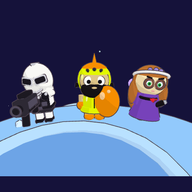
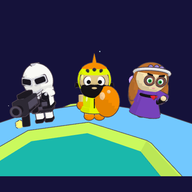
cowaltz: restyle from itemnaut's taste profile
Flat-shaded low-poly look with unbroken ink outlines, highlighter and ocean
colours (sea craters, ocean planet), Mario 64-style loose movement (tiptoe to
run, momentum, skids, lean), teammates bring the EpiPen after a sting, small
idle moments and wave-clear high fives, dizzy bees, reduced-motion and
screen-reader announcements.

Claude-Session: https://claude.ai/code/session_01FZs65bri4EmuDcWt9qR4u5

diff --git a/games/cowaltz/index.html b/games/cowaltz/index.html
@@ -40,7 +40,7 @@
   .pt { width:54px; height:54px; border-radius:16px; border:4px solid #161216; background:#2A2560; padding:0; position:relative; opacity:.62; box-shadow:2px 3px 0 #161216; }
   .pt svg { width:100%; height:100%; display:block; }
   .pt.on { opacity:1; background:#FFE94A; transform:scale(1.08); }
-  .pt b { position:absolute; left:50%; bottom:-11px; transform:translateX(-50%); font-family:'Bangers', cursive; font-weight:normal; font-size:11px; letter-spacing:.5px;
+  .pt b { position:absolute; left:50%; bottom:-11px; transform:translateX(-50%); font-family:'Bangers', cursive; font-weight:normal; font-size:12px; letter-spacing:.5px;
     background:#161216; color:#fff; border-radius:6px; padding:0 4px; white-space:nowrap; }
   .pt.hurt { animation: hurt .5s; }
   @keyframes hurt { 0%,100% { background:#2A2560; } 30% { background:#FF2E88; } }
@@ -128,13 +128,12 @@
     <h1>COWALTZ</h1>
     <p class="sub">The Knight, the Fairy Princess &amp; the Trooper vs. the bees of the Blue Moon</p>
     <div class="help">
-      <div>🕹 <b>Stick</b> to move</div>
-      <div>🛡 <b>Knight</b>: his shield bounces bees and stingers back into the swarm. Tap <b>BASH</b> to slam bees.</div>
-      <div>🏹 <b>Fairy</b>: hold <b>SHOOT</b> to fire arrows.</div>
-      <div>🔫 <b>Trooper</b>: hold <b>FIRE</b> for big knock-back balls.</div>
-      <div>👆 <b>Tap a hero</b> (or their portrait) to take control. The others fight on their own.</div>
-      <div>🐝 Bees aim (watch for the pink line), then launch themselves stinger-first. Only the queen shoots stingers.</div>
-      <div>💉 Every sting uses an <b>EpiPen</b>. Pick more up. Get stung with none left and it's over.</div>
+      <div>🕹 <b>Stick</b> to move. Push a little to tiptoe, all the way to run.</div>
+      <div>👆 <b>Tap a hero</b> (or their portrait) to play as them. The others fight on their own.</div>
+      <div>🛡 <b>Knight</b>: his shield bounces bees back. <b>BASH</b> to slam them.</div>
+      <div>🏹 <b>Fairy</b>: hold <b>SHOOT</b>. 🔫 <b>Trooper</b>: hold <b>FIRE</b>.</div>
+      <div>🐝 A pink line means a bee is about to dive. Knock bees into each other.</div>
+      <div>💉 A sting swells you up. A teammate runs over with an <b>EpiPen</b>. Out of EpiPens? Game over.</div>
     </div>
     <button class="big" id="startB">PLAY</button>
     <p id="bestT" style="font-size:16px;margin:8px 0 0"></p>
@@ -149,6 +148,7 @@
   </div>
 </div>
 <div id="err">This needs WebGL to run.</div>
+<div id="sr" aria-live="polite" style="position:fixed;left:-9999px;width:1px;height:1px;overflow:hidden"></div>
 
 <script type="module">
 import * as THREE from 'three';
@@ -158,6 +158,8 @@ import { RoundedBoxGeometry } from 'three/addons/geometries/RoundedBoxGeometry.j
 
 const QS = new URLSearchParams(location.search);
 const AUTOTEST = QS.has('autotest'), GOD = QS.has('god');
+const CALM = matchMedia('(prefers-reduced-motion: reduce)').matches;     // no shake or twinkle
+const say = t => { const el = document.getElementById('sr'); if (el) el.textContent = t; };
 
 // ======================= renderer / scene =======================
 let renderer;
@@ -183,6 +185,7 @@ function toon(color, outline = true, extra = null) {
   const k = color + (outline ? 'o' : 'n') + (extra ? JSON.stringify(extra) : '');
   if (!matCache[k]) {
     matCache[k] = new THREE.MeshToonMaterial(Object.assign({ color, gradientMap: ramp }, extra || {}));
+    matCache[k].flatShading = true;   // set after construction: the constructor drops unknown keys
     if (!outline) matCache[k].userData.outlineParameters = { visible: false };
   }
   return matCache[k];
@@ -194,7 +197,7 @@ function part(geo, color, parent, pos = [0, 0, 0], scl = null, rot = null, outli
   parent.add(m); return m;
 }
 function pivot(parent, pos = [0, 0, 0], rot = null) { const g = new THREE.Group(); g.position.set(...pos); if (rot) g.rotation.set(...rot); parent.add(g); return g; }
-const SPH = (r, w = 20, h = 14) => new THREE.SphereGeometry(r, w, h);
+const SPH = (r, w = 12, h = 9) => new THREE.SphereGeometry(r, w, h);   // low-poly on purpose
 
 // ======================= sphere math =======================
 const R = 11;
@@ -225,8 +228,8 @@ const randDir = (r = Math.random) => { const z = r() * 2 - 1, t = r() * 6.2832, 
 const anyTangent = (u, out) => { out.set(0, 1, 0); if (Math.abs(u.y) > 0.9) out.set(1, 0, 0); return tangent(out, u).normalize(); };
 
 // ======================= the blue moon =======================
-const MOON = 0x8EC3F5, MOON_DARK = 0x6A9FE0, MOON_RIM = 0xB4DBFF;
-const moon = new THREE.Mesh(SPH(R, 72, 54), toon(MOON));
+const MOON = 0x6FC2F7, MOON_DARK = 0x19B3A6, MOON_RIM = 0xC4F25A;
+const moon = new THREE.Mesh(SPH(R, 34, 24), toon(MOON));
 scene.add(moon);
 {
   const discs = [], rims = [], used = [];
@@ -235,8 +238,8 @@ scene.add(moon);
     if (used.some(o => o.d.distanceTo(d) * R < (o.r + r) * 0.9)) continue;
     used.push({ d, r });
     const q = new THREE.Quaternion().setFromUnitVectors(new THREE.Vector3(0, 0, 1), d);
-    const disc = new THREE.CircleGeometry(r, 22); disc.applyQuaternion(q); disc.translate(...d.clone().multiplyScalar(R + 0.015).toArray()); discs.push(disc);
-    const rim = new THREE.TorusGeometry(r, 0.07 + r * 0.05, 5, 26); rim.applyQuaternion(q); rim.translate(...d.clone().multiplyScalar(R + 0.02).toArray()); rims.push(rim);
+    const disc = new THREE.CircleGeometry(r, 9); disc.applyQuaternion(q); disc.translate(...d.clone().multiplyScalar(R + 0.015).toArray()); discs.push(disc);
+    const rim = new THREE.TorusGeometry(r, 0.07 + r * 0.05, 4, 9); rim.applyQuaternion(q); rim.translate(...d.clone().multiplyScalar(R + 0.02).toArray()); rims.push(rim);
   }
   scene.add(new THREE.Mesh(mergeGeometries(discs), toon(MOON_DARK, false)));
   scene.add(new THREE.Mesh(mergeGeometries(rims), toon(MOON_RIM)));
@@ -246,7 +249,7 @@ scene.add(moon);
     const d = randDir(rnd), g = new THREE.IcosahedronGeometry(0.08 + rnd() * 0.12, 0);
     g.translate(...d.multiplyScalar(R + 0.03).toArray()); peb.push(g);
   }
-  scene.add(new THREE.Mesh(mergeGeometries(peb), toon(0xD6ECFF)));
+  scene.add(new THREE.Mesh(mergeGeometries(peb), toon(0xFFF27A)));
 }
 
 // ======================= sky: stars + a far ringed planet =======================
@@ -269,9 +272,9 @@ for (let i = 0; i < 150; i++) {
 }
 { // a big ringed planet hanging in the sky
   const pl = new THREE.Group();
-  part(SPH(9, 32, 24), 0xFF8FB3, pl);
-  part(new THREE.SphereGeometry(9.05, 32, 24, 0, 6.28, 1.2, 0.5), 0xFF5FA0, pl, [0, 0, 0], null, null, false);
-  const ring = part(new THREE.TorusGeometry(14, 1.1, 4, 48), 0xFFE94A, pl, [0, 0, 0], [1, 1, 0.25], [1.25, 0.3, 0]);
+  part(SPH(9, 16, 12), 0x1E7FE0, pl);                                     // an ocean world on the horizon
+  part(new THREE.SphereGeometry(9.05, 16, 12, 0, 6.28, 1.15, 0.55), 0x3EE07A, pl, [0, 0, 0], null, null, false);
+  const ring = part(new THREE.TorusGeometry(14, 1.1, 4, 24), 0xFFE94A, pl, [0, 0, 0], [1, 1, 0.25], [1.25, 0.3, 0]);
   pl.position.set(-60, 38, -70); scene.add(pl);
 }
 
@@ -368,6 +371,7 @@ function sfx(name) {
     case 'boom': tone('sine', 150, 45, 0.2, 0.7); noise(0.14, 0.55, 500); break;
     case 'whoosh': noise(0.28, 0.3, 1500); tone('sawtooth', 260, 640, 0.2, 0.08); break;
     case 'buzz': tone('sawtooth', 170, 230, 0.3, 0.1); break;
+    case 'skid': noise(0.2, 0.25, 2400); break;
     case 'wave': [523, 659, 784, 1046].forEach((f, i) => tone('square', f, f, 0.11, 0.14, i * 0.09)); break;
     case 'over': [392, 330, 262, 196].forEach((f, i) => tone('triangle', f, f * 0.98, 0.25, 0.4, i * 0.2)); break;
   }
@@ -540,7 +544,8 @@ function makeHero(kind) {
   scene.add(ring);
   return Object.assign(m, {
     kind, ring, u: new THREE.Vector3(0, 1, 0), face: new THREE.Vector3(0, 0, 1), vel: new THREE.Vector3(),
-    h: 0, inv: 0, phase: 0, walk: 0, bashT: 0, bashCd: 0, fireCd: 0, draw: 0, block: 0, recoil: 0, hitSet: new Set()
+    h: 0, inv: 0, phase: 0, walk: 0, bashT: 0, bashCd: 0, fireCd: 0, draw: 0, block: 0, recoil: 0, hitSet: new Set(),
+    puffy: 0, helpT: 0, cheer: 0, breath: 0, skid: 0, run: 0, idleT: -2 - Math.random() * 3, fidget: 0, lean: 0, bank: 0, lastFace: new THREE.Vector3(0, 0, 1)
   });
 }
 const knight = makeHero('knight'), fairy = makeHero('fairy'), soldier = makeHero('soldier');
@@ -574,8 +579,8 @@ const BEE_KIND = {          // every bee but the queen is a living missile: it a
   queen: { col: '#FFD23C', hp: 40, rad: 1.4, pts: 2500, scale: 2.2, spd: 1 },     // the only one that shoots stingers
 };
 const BEE_GEO = {
-  abd: new THREE.SphereGeometry(0.4, 20, 16).rotateX(Math.PI / 2),
-  head: new THREE.SphereGeometry(0.36, 22, 16),
+  abd: new THREE.SphereGeometry(0.4, 12, 9).rotateX(Math.PI / 2),
+  head: new THREE.SphereGeometry(0.36, 14, 10),
   sting: new THREE.ConeGeometry(0.09, 0.32, 8).rotateX(-Math.PI / 2),
   horn: new THREE.ConeGeometry(0.055, 0.17, 6),
   wing: new THREE.CircleGeometry(0.3, 16),
@@ -585,6 +590,7 @@ const BEE_MAT = {};
 for (const k in BEE_KIND) {
   const c = BEE_KIND[k].col;
   BEE_MAT[k] = { abd: new THREE.MeshToonMaterial({ map: stripeTex(c), gradientMap: ramp }), head: new THREE.MeshToonMaterial({ map: faceTex(c), gradientMap: ramp }) };
+  BEE_MAT[k].abd.flatShading = BEE_MAT[k].head.flatShading = true;
 }
 const WING_MAT = toon(0xF4FBFF, true, { side: THREE.DoubleSide, transparent: true, opacity: 0.85 });
 function buildBee(kind) {
@@ -681,7 +687,7 @@ function buildPen() {
   part(new THREE.CylinderGeometry(0.1, 0.12, 0.14, 12), 0xFF7A1F, s, [0, -0.35, 0]);
   part(new THREE.CylinderGeometry(0.12, 0.11, 0.16, 12), 0x2F7BE8, s, [0, 0.36, 0]);
   s.rotation.z = 0.5;
-  const ring = part(new THREE.TorusGeometry(0.55, 0.05, 6, 30).rotateX(Math.PI / 2), noLine(new THREE.MeshBasicMaterial({ color: 0x7FF6FF, transparent: true, opacity: 0.8 })), g, [0, -0.85, 0]);
+  const ring = part(new THREE.TorusGeometry(0.55, 0.05, 6, 30).rotateX(Math.PI / 2), noLine(new THREE.MeshBasicMaterial({ color: 0x8BFF3C, transparent: true, opacity: 0.85 })), g, [0, -0.85, 0]);
   return { g, s, ring };
 }
 function spawnPen(u) {
@@ -695,14 +701,14 @@ let wave = 0, score = 0, pens = 3, best = 0, combo = 0, comboT = 0, waveQueue = 
 let slowmo = 1, overT = 0, simT = 0, shake = 0;
 try { best = +localStorage.getItem('cowaltz-best') || 0; } catch (e) { }
 const $ = id => document.getElementById(id);
-const stats = { kills: 0, stings: 0, ricochets: 0, blocks: 0, pens: 0, arrows: 0, balls: 0, bashes: 0, launches: 0, maxWave: 0 };
+const stats = { rescues: 0, skids: 0, kills: 0, stings: 0, ricochets: 0, blocks: 0, pens: 0, arrows: 0, balls: 0, bashes: 0, launches: 0, maxWave: 0 };
 
 function resetHeroes() {
   const u0 = new THREE.Vector3(0, 0.35, 1).normalize();
   knight.u.copy(u0); knight.face.set(0, 1, 0); tangent(knight.face, knight.u).normalize();
   const side = new THREE.Vector3().crossVectors(knight.u, knight.face).normalize();
   offsetU(u0, side, -1.4, fairy.u); offsetU(u0, side, 1.4, soldier.u);
-  for (const h of heroes) { if (h !== knight) { h.face.copy(knight.face); tangent(h.face, h.u).normalize(); } h.vel.set(0, 0, 0); h.inv = 0; h.bashT = 0; h.bashCd = 0; h.fireCd = 0; }
+  for (const h of heroes) { if (h !== knight) { h.face.copy(knight.face); tangent(h.face, h.u).normalize(); } h.vel.set(0, 0, 0); h.inv = 0; h.bashT = 0; h.bashCd = 0; h.fireCd = 0; h.puffy = 0; h.cheer = 0; h.skid = 0; h.run = 0; }
   camU.copy(u0); camFwd.copy(knight.face); tangent(camFwd, camU).normalize();
 }
 function clearField() {
@@ -743,6 +749,7 @@ function planWave(n) {
 function startWave() {
   wave++; stats.maxWave = wave; waveQueue = planWave(wave); spawnT = 0.4;
   banner(`WAVE ${wave}`, wave % 5 === 0 ? 'THE QUEEN IS HERE!' : (wave === 1 ? 'here come the bees…' : ''));
+  say(`Wave ${wave}` + (wave % 5 === 0 ? '. The queen is here.' : ''));
   sfx('wave'); updateHud(true);
 }
 function spawnPoint(minA, maxA) {
@@ -859,6 +866,7 @@ function updateCamera(dt, follow, dist, pitch) {
   const p = camCur.p, d = camCur.d;
   const focus = tA.copy(camU).multiplyScalar(R + 0.6);
   camera.position.copy(focus).addScaledVector(camU, Math.sin(p) * d).addScaledVector(camFwd, -Math.cos(p) * d);
+  if (CALM) shake = 0;
   if (shake > 0) { camera.position.x += (Math.random() - .5) * shake; camera.position.y += (Math.random() - .5) * shake; shake = Math.max(0, shake - dt * 2.5); }
   camera.up.copy(camU);
   camera.lookAt(tB.copy(focus).addScaledVector(camFwd, 0.9));
@@ -876,13 +884,14 @@ function nearestBee(u, maxD, coneFace = null, coneCos = -2) {
   }
   return best;
 }
-function nearestHero(u) { let best = knight, bd = 1e9; for (const h of heroes) { const d = chord(u, h.u); if (d < bd) { bd = d; best = h; } } return best; }
+function nearestHero(u) { let best = null, bd = 1e9; for (const h of heroes) { const d = chord(u, h.u) + (h.puffy > 0 ? 50 : 0); if (d < bd) { bd = d; best = h; } } return best; }
 function addScore(n) { score += n; }
 function knockBee(b, dir, speed, chain = 0) {
   const mul = b.kind === 'queen' ? 0.15 : 1;
   b.vel.copy(dir).multiplyScalar(speed * mul); tangent(b.vel, b.u);
   b.knock = b.kind === 'queen' ? 0.15 : 0.75; b.chain = chain; b.squash = 1;
   if (b.kind !== 'queen' && (b.mode === 'aim' || b.mode === 'launch')) { b.mode = 'recover'; b.st = 1.1; b.tgt = null; }
+  if (b.kind !== 'queen') b.dizzy = 1.7;
 }
 function damageBee(b, n, src) {
   if (b.dying) return;
@@ -911,17 +920,27 @@ function stingHero(h, fromU) {
   shake = 0.45; sfx('sting');
   const el = $(HERO_UI[h.kind].pt); el.classList.remove('hurt'); void el.offsetWidth; el.classList.add('hurt');
   if (pens <= 0) { popWord('OUCH!!', h.u, 2.2, { fill: '#fff', burst: '#FF2E88', size: 1.8, life: 1.2 }); slowmo = 0.25; overT = 1.1; h.inv = 99; updateHud(true); return; }
-  pens--; h.inv = 2.0;
+  pens--; h.puffy = 4.5; h.inv = h.puffy + 1.2; h.helpT = 0;      // swells up and waits for a teammate's EpiPen
   popWord('STUNG!', h.u, 2.4, { fill: '#fff', burst: '#FF2E88', size: 1.3, life: 0.9 });
-  setTimeout(() => { if (state === 'play') popWord('EPIPEN!', h.u, 2.6, { fill: '#161216', burst: '#FFD400', size: 1.2, life: 0.9 }); }, 280);
+  say(`The ${HERO_UI[h.kind].name.toLowerCase()} got stung. ${pens} EpiPens left.`);
   updateHud(true);
+}
+function giveEpiPen(h, from) {                                    // from = the teammate who ran over (or null)
+  h.puffy = 0; h.inv = 1.4; sfx('pick');
+  _p.copy(h.u).multiplyScalar(R + 1); for (let i = 0; i < 10; i++) emitSpark(_p, h.u, [0x8BFF3C, 0xFFE94A, 0xffffff][i % 3], i < 4);
+  if (from) {
+    stats.rescues++; addScore(250); from.cheer = 0.6; h.cheer = 0.6;
+    popWord('THANKS!', h.u, 2.5, { fill: '#161216', burst: '#8BFF3C', size: 1.2, life: 1 });
+    popWord('+250 TEAMWORK', from.u, 2.0, { fill: '#fff', size: 0.75, life: 1, rise: 1.6 });
+    say(`The ${HERO_UI[from.kind].name.toLowerCase()} brought the EpiPen.`);
+  } else popWord('PHEW…', h.u, 2.4, { fill: '#fff', size: 0.9, life: 0.9 });
 }
 function shieldPoint(out) { return offsetU(knight.u, knight.face, 0.55, out); }
 const _shield = new THREE.Vector3();
 function inShieldArc(fromU, cosLim = 0.3) { dirTo(knight.u, fromU, tD); return tD.dot(knight.face) > cosLim; }
 
 // ======================= hero update (player + AI) =======================
-const _want = new THREE.Vector3(), _aim = new THREE.Vector3(), _tmp = new THREE.Vector3(), _tmp2 = new THREE.Vector3();
+const _want = new THREE.Vector3(), _aim = new THREE.Vector3(), _tmp = new THREE.Vector3(), _tmp2 = new THREE.Vector3(), _dv = new THREE.Vector3();
 const isDanger = b => b.mode === 'aim' || b.mode === 'launch' || b.kind === 'queen';
 function threatDir(u, range, out) {      // weighted direction toward nearby danger
   out.set(0, 0, 0);
@@ -1028,7 +1047,11 @@ function playerHero(h, want, dt) {
   const mag = Math.min(1, Math.hypot(ix, iy));
   const right = tC.crossVectors(camFwd, camU);
   want.copy(right).multiplyScalar(ix).addScaledVector(camFwd, iy); tangent(want, h.u);
-  if (want.lengthSq() > 1e-6) want.setLength(mag * SPEED[h.kind]);
+  // analog range: a light push tiptoes, a full push runs, and holding it full builds a little extra speed
+  h.run = mag > 0.92 ? Math.min(1, h.run + dt * 1.4) : Math.max(0, h.run - dt * 3);
+  const curve = mag < 0.35 ? mag / 0.35 * 0.38 : 0.38 + (mag - 0.35) / 0.65 * 0.62;
+  if (want.lengthSq() > 1e-6) want.setLength(curve * SPEED[h.kind] * (1 + 0.22 * h.run));
+  if (h.puffy > 0) return;
   if (h === knight) {
     if (mag > 0.15) turnToward(h.face, h.u, _tmp2.copy(want).normalize(), 12 * dt);
     else { const nb = dangerBee(h.u, 7); if (nb) turnToward(h.face, h.u, dirTo(h.u, nb.u, _tmp2), 7 * dt); }
@@ -1044,20 +1067,49 @@ const AI = { knight: aiKnight, fairy: aiFairy, soldier: aiSoldier };
 function updateHero(h, dt) {
   h.inv = Math.max(0, h.inv - dt); h.bashCd -= dt; h.fireCd -= dt; h.draw = Math.max(0, h.draw - dt * 4); h.recoil = Math.max(0, h.recoil - dt * 5);
   _want.set(0, 0, 0);
-  if (state === 'play') { if (h === active && !AUTOTEST) playerHero(h, _want, dt); else AI[h.kind](h, _want, dt); }
+  if (state === 'play') {
+    if (h === active && !AUTOTEST) playerHero(h, _want, dt);
+    else if (h.puffy > 0) { let t = null, bd = 1e9; for (const o of heroes) if (o !== h && o.puffy <= 0 && chord(h.u, o.u) < bd) { bd = chord(h.u, o.u); t = o; } if (t) dirTo(h.u, t.u, _want).multiplyScalar(SPEED[h.kind]); }
+    else AI[h.kind](h, _want, dt);
+    // mutual aid: the closest free AI teammate drops everything and runs over with the EpiPen
+    const needy = h.puffy <= 0 && (h !== active || AUTOTEST) ? heroes.find(x => x !== h && x.puffy > 0) : null;
+    if (needy) {
+      let helper = null, bd = 1e9; for (const x of heroes) if (x.puffy <= 0 && (x !== active || AUTOTEST) && chord(x.u, needy.u) < bd) { bd = chord(x.u, needy.u); helper = x; }
+      if (helper === h) dirTo(h.u, needy.u, _want).multiplyScalar(SPEED[h.kind] * 1.15);
+    }
+    if (h.puffy <= 0) for (const o of heroes) if (o !== h && o.puffy > 0 && o.puffy < 3.8 && chord(h.u, o.u) < 1.15) giveEpiPen(o, h);   // a beat to see the swelling first
+    if (h.puffy > 0) {
+      h.puffy -= dt; _want.multiplyScalar(0.45);
+      h.helpT -= dt; if (h.helpT <= 0 && h.puffy > 0.6) { h.helpT = 1.4; popWord('HELP!', h.u, 2.3, { fill: '#fff', burst: '#FF2E88', size: 0.8, life: 0.8, rise: 0.6 }); }
+      if (h.puffy <= 0) giveEpiPen(h, null);
+    }
+  }
   else if (state === 'title') turnToward(h.face, h.u, _tmp2.copy(camFwd).negate(), 8 * dt);
   if (h.bashT > 0) { h.bashT -= dt; _want.copy(h.face).multiplyScalar(13); }
-  h.vel.lerp(_want, 1 - Math.exp(-(h.bashT > 0 ? 30 : 11) * dt)); tangent(h.vel, h.u);
+  const sp0 = h.vel.length();
+  if (h.bashT <= 0 && h.skid <= 0 && sp0 > 3.4 && _want.lengthSq() > 4 && _tmp.copy(_want).normalize().dot(_tmp2.copy(h.vel).divideScalar(sp0)) < -0.4) { h.skid = 0.26; stats.skids++; sfx('skid'); }
+  if (h.skid > 0) { h.skid -= dt; if (Math.random() < 0.6) { _p.copy(h.u).multiplyScalar(R + 0.12); emitSpark(_p, h.u, 0xffffff, false); } }
+  const acc = h.bashT > 0 ? 60 : h.skid > 0 ? 9 : (_want.lengthSq() > sp0 * sp0 ? 24 : 11);
+  _dv.subVectors(_want, h.vel); const dl = _dv.length(), mx = acc * dt; if (dl > mx && dl > 1e-9) _dv.multiplyScalar(mx / dl);
+  const fwdAcc = _dv.dot(h.face) / Math.max(dt, 1e-4);
+  h.vel.add(_dv); tangent(h.vel, h.u);
   for (const o of heroes) { if (o === h) continue; const dd = chord(h.u, o.u); if (dd < 0.95) h.vel.addScaledVector(dirTo(o.u, h.u, tD), (0.95 - dd) * 8); }
-  moveOnSphere(h.u, h.vel, dt, [h.face]);
+  const turnRate = signedAng(h.u, h.lastFace, h.face) / Math.max(dt, 1e-4); h.lastFace.copy(h.face);
+  moveOnSphere(h.u, h.vel, dt, [h.face, h.lastFace]);
+  h.lean += (clamp(fwdAcc * 0.012, -0.22, 0.28) - (h.skid > 0 ? 0.35 : 0) - h.lean) * Math.min(1, 10 * dt);
+  h.bank += (clamp(-turnRate * 0.05, -0.28, 0.28) * Math.min(1, sp0 / 3) - h.bank) * Math.min(1, 8 * dt);
   // animation
   const sp = h.vel.length(); h.walk += (Math.min(1, sp / 4) - h.walk) * Math.min(1, 10 * dt); h.phase += sp * dt * 3.2;
   const s = Math.sin(h.phase), w = h.walk, P = h.P;
   h.h = h.kind === 'fairy' ? 0.1 + Math.sin(simT * 3) * 0.05 : 0;
-  place(h.root, h.u, h.face, h.h + Math.abs(s) * 0.07 * w);
-  h.body.rotation.z = s * 0.09 * w; h.body.rotation.x = 0.12 * w;
-  P.legL.rotation.x = s * 0.7 * w; P.legR.rotation.x = -s * 0.7 * w;
-  P.armR.rotation.x = s * 0.6 * w; P.armL.rotation.x = -s * 0.6 * w;
+  h.cheer = Math.max(0, h.cheer - dt); h.breath = Math.max(0, h.breath - dt);
+  const hop = h.cheer > 0 ? Math.sin(Math.PI * h.cheer / 1.1) * 0.28 : 0, swing = 1 + h.run * 0.6, tip = sp0 < 1.8 ? 0.55 : 1;
+  place(h.root, h.u, h.face, h.h + hop + Math.abs(s) * 0.07 * w * tip);
+  h.body.rotation.z = s * 0.09 * w + h.bank; h.body.rotation.x = 0.12 * w + h.lean + 0.12 * h.run;
+  P.legL.rotation.x = s * 0.7 * w * tip * swing; P.legR.rotation.x = -s * 0.7 * w * tip * swing;
+  P.armR.rotation.x = s * 0.6 * w * swing; P.armL.rotation.x = -s * 0.6 * w * swing;
+  const breathe = 1 + 0.015 * Math.sin(simT * 2.2 + h.phase * 0) + (h.breath > 0 ? 0.07 * Math.sin(Math.PI * (1 - h.breath / 1.6)) : 0);
+  h.body.scale.set(1, breathe, 1);
   P.head.rotation.z = -s * 0.05 * w;
   if (h.kind === 'knight') {
     const bash = h.bashT > 0 ? 1 : 0;
@@ -1077,7 +1129,21 @@ function updateHero(h, dt) {
     P.armR.rotation.set(-1.2 + rc * 0.3, 0, 0.2); P.armL.rotation.set(-1.45 + rc * 0.3, 0, -0.55);
     P.gun.position.z = 0.36 - rc * 0.16; P.gun.rotation.x = -rc * 0.14; h.body.rotation.x -= rc * 0.08;
   }
-  h.root.visible = h.inv > 0 && h.inv < 50 ? Math.floor(h.inv * 12) % 2 === 0 : true;
+  // small moments: when standing still a while, each hero fidgets in their own way
+  if (sp0 < 0.3 && h.puffy <= 0 && h.bashT <= 0 && h.fireCd < -0.5) { h.idleT += dt; if (h.idleT > 0 && h.fidget <= 0) { h.fidget = 1.3; h.idleT = -(3 + Math.random() * 4); } }
+  else if (h.idleT > -1.5) h.idleT = -1.5;
+  if (h.fidget > 0) {
+    h.fidget -= dt; const k = Math.sin(Math.PI * Math.max(0, h.fidget) / 1.3);
+    if (h.kind === 'knight') { P.armR.rotation.x = -2.5 * k; P.armR.rotation.z = -0.5 * k; P.head.rotation.z += 0.08 * k; }      // straightens his helmet
+    else if (h.kind === 'fairy') { P.armL.rotation.x = -2.3 * k; P.armL.rotation.z = 0.85 * k; }                                 // pushes her glasses up
+    else { P.gun.rotation.x -= 0.6 * k; P.head.rotation.x = 0.3 * k; }                                                             // checks his gun
+  } else if (h.kind === 'soldier') P.head.rotation.x = 0;
+  if (h.cheer > 0) { const k = Math.sin(Math.PI * h.cheer / 1.1); if (h.kind === 'soldier') P.gun.rotation.x -= 0.8 * k; else { P.armR.rotation.x = -2.7 * k; if (h.kind === 'fairy') P.armL.rotation.x = -2.7 * k; } }
+  // swollen from a sting until the EpiPen arrives
+  const base = P.head.userData.base || (P.head.userData.base = P.head.scale.x);
+  h.swell = (h.swell || 0) + ((h.puffy > 0 ? 1 : 0) - (h.swell || 0)) * Math.min(1, 6 * dt);
+  P.head.scale.setScalar(base * (1 + 0.32 * h.swell + (h.puffy > 0 ? 0.03 * Math.sin(simT * 9) : 0)));
+  h.root.visible = h.puffy <= 0 && h.inv > 0 && h.inv < 50 ? Math.floor(h.inv * 12) % 2 === 0 : true;
   h.ring.visible = state === 'play' && h === active;
   if (h.ring.visible) { place(h.ring, h.u, h.face, 0.04); h.ring.scale.setScalar(1 + Math.sin(simT * 6) * 0.06); }
 }
@@ -1227,8 +1293,14 @@ function updateBees(dt) {
     b.body.rotation.z = b.spin; b.body.rotation.x = b.knock > 0 ? -0.5 : b.mode === 'launch' ? 0 : 0.15;
     b.body.position.x = b.mode === 'aim' ? (Math.random() - 0.5) * 0.12 : 0;
     const fl = Math.sin(b.t * (b.mode === 'launch' ? 90 : 60)) * 0.6; b.wings[0].rotation.z = 0.3 + fl; b.wings[1].rotation.z = -0.3 - fl;
+    if (b.dizzy > 0 || b.stars) {                                  // little stars circle a dazed bee
+      b.dizzy = Math.max(0, (b.dizzy || 0) - dt);
+      if (!b.stars) { b.stars = new THREE.Group(); for (let j = 0; j < 3; j++) { const sp = new THREE.Sprite(DIZZY_MAT); sp.scale.setScalar(0.26); sp.position.set(Math.cos(j * 2.094) * 0.38, 0, Math.sin(j * 2.094) * 0.38); b.stars.add(sp); } b.stars.position.y = 0.72; b.root.add(b.stars); }
+      b.stars.visible = b.dizzy > 0; b.stars.rotation.y += dt * 7;
+    }
   }
 }
+const DIZZY_MAT = new THREE.SpriteMaterial({ map: sparkTex[0], color: 0xFFE94A, depthWrite: false });
 
 // ======================= projectile update =======================
 function updateProjectiles(dt) {
@@ -1307,7 +1379,11 @@ function updateGame(dt) {
         spawnT = Math.max(0.35, 1.0 - wave * 0.05);
       }
     } else if (bees.every(b => b.dying) && state === 'play') {
-      nextWaveT = 2.6; addScore(250 * wave); popWord('WAVE CLEAR!', active.u, 2.6, { fill: '#FFE94A', burst: '#2F7BE8', size: 1.6, life: 1.4 });
+      nextWaveT = 2.6; addScore(250 * wave); popWord('WAVE CLEAR!', active.u, 2.6, { fill: '#FFE94A', burst: '#1E7FE0', size: 1.6, life: 1.4 });
+      for (const h of heroes) { h.cheer = 1.1; h.breath = 1.6; }
+      for (let a = 0; a < heroes.length; a++) for (let b = a + 1; b < heroes.length; b++) if (chord(heroes[a].u, heroes[b].u) < 2.6) {
+        const mid = tA.copy(heroes[a].u).add(heroes[b].u).normalize(); popWord('HIGH FIVE!', mid, 1.8, { fill: '#fff', burst: '#FF8A1F', size: 0.8, life: 0.9 }); break; }
+      say(`Wave ${wave} clear.`);
     }
     stageT += dt;
     if (stageT > 21 && pickups.length < 2) { stageT = 0; const d = anyTangent(camU, new THREE.Vector3()).applyAxisAngle(camU, Math.random() * 6.28); spawnPen(offsetU(camU, d, 3 + Math.random() * 4, new THREE.Vector3())); }
@@ -1324,13 +1400,13 @@ function updateGame(dt) {
 }
 let last = performance.now(), titleYaw = 0;
 function frame(now) {
-  let dt = Math.min(0.05, (now - last) / 1000); last = now;
+  let dt = clamp((now - last) / 1000, 0, 0.05); last = now;
   if (state === 'over' && overT <= 0) slowmo += (1 - slowmo) * Math.min(1, dt * 2);
   const gdt = dt * slowmo; simT += gdt;
   updateGame(gdt);
   if (state === 'title') { if (!QS.has('icon')) orbitDelta += dt * 18; updateCamera(dt, tA.copy(knight.u).add(fairy.u).add(soldier.u).normalize(), QS.has('icon') ? 5.4 : 7, QS.has('icon') ? 0.22 : 0.32); }
   else updateCamera(dt, active.u);
-  for (const s of twinklers) { const u = s.userData; s.scale.setScalar(u.base * (0.8 + 0.25 * Math.sin(simT * u.sp + u.ph))); }
+  if (!CALM) for (const s of twinklers) { const u = s.userData; s.scale.setScalar(u.base * (0.8 + 0.25 * Math.sin(simT * u.sp + u.ph))); }
   effect.render(scene, camera);
   requestAnimationFrame(frame);
 }
@@ -1341,7 +1417,7 @@ addEventListener('resize', () => { camera.aspect = innerWidth / innerHeight; cam
 document.addEventListener('visibilitychange', () => { if (document.hidden) bgm.pause(); else if (state === 'play') playMusic(); });
 if (document.fonts) document.fonts.load('40px Bangers').then(() => { for (const k in wordCache) delete wordCache[k]; }).catch(() => { });
 if (AUTOTEST) startGame();
-window.__cw = { get active() { return active.kind; }, heroScreen(k) { const h = heroes.find(x => x.kind === k); const p = h.u.clone().multiplyScalar(R + h.h + 0.75).project(camera); return { x: (p.x * 0.5 + 0.5) * innerWidth, y: (-p.y * 0.5 + 0.5) * innerHeight }; }, get state() { return state; }, get wave() { return wave; }, get score() { return score; }, get pens() { return pens; }, set pens(v) { pens = v; }, bees, bullets, heroes, stats, setActive, startGame, get bulletCount() { return bulletCount; }, spawnBee, spawnPen, camU, camFwd, knight, fairy, soldier };
+window.__cw = { sting(k) { const h = heroes.find(x => x.kind === k); h.inv = 0; stingHero(h, offsetU(h.u, h.face, 1, new THREE.Vector3())); }, get active() { return active.kind; }, heroScreen(k) { const h = heroes.find(x => x.kind === k); const p = h.u.clone().multiplyScalar(R + h.h + 0.75).project(camera); return { x: (p.x * 0.5 + 0.5) * innerWidth, y: (-p.y * 0.5 + 0.5) * innerHeight }; }, get state() { return state; }, get wave() { return wave; }, get score() { return score; }, get pens() { return pens; }, set pens(v) { pens = v; }, bees, bullets, heroes, stats, setActive, startGame, get bulletCount() { return bulletCount; }, spawnBee, spawnPen, camU, camFwd, knight, fairy, soldier };
 </script>
 </body>
 </html>
